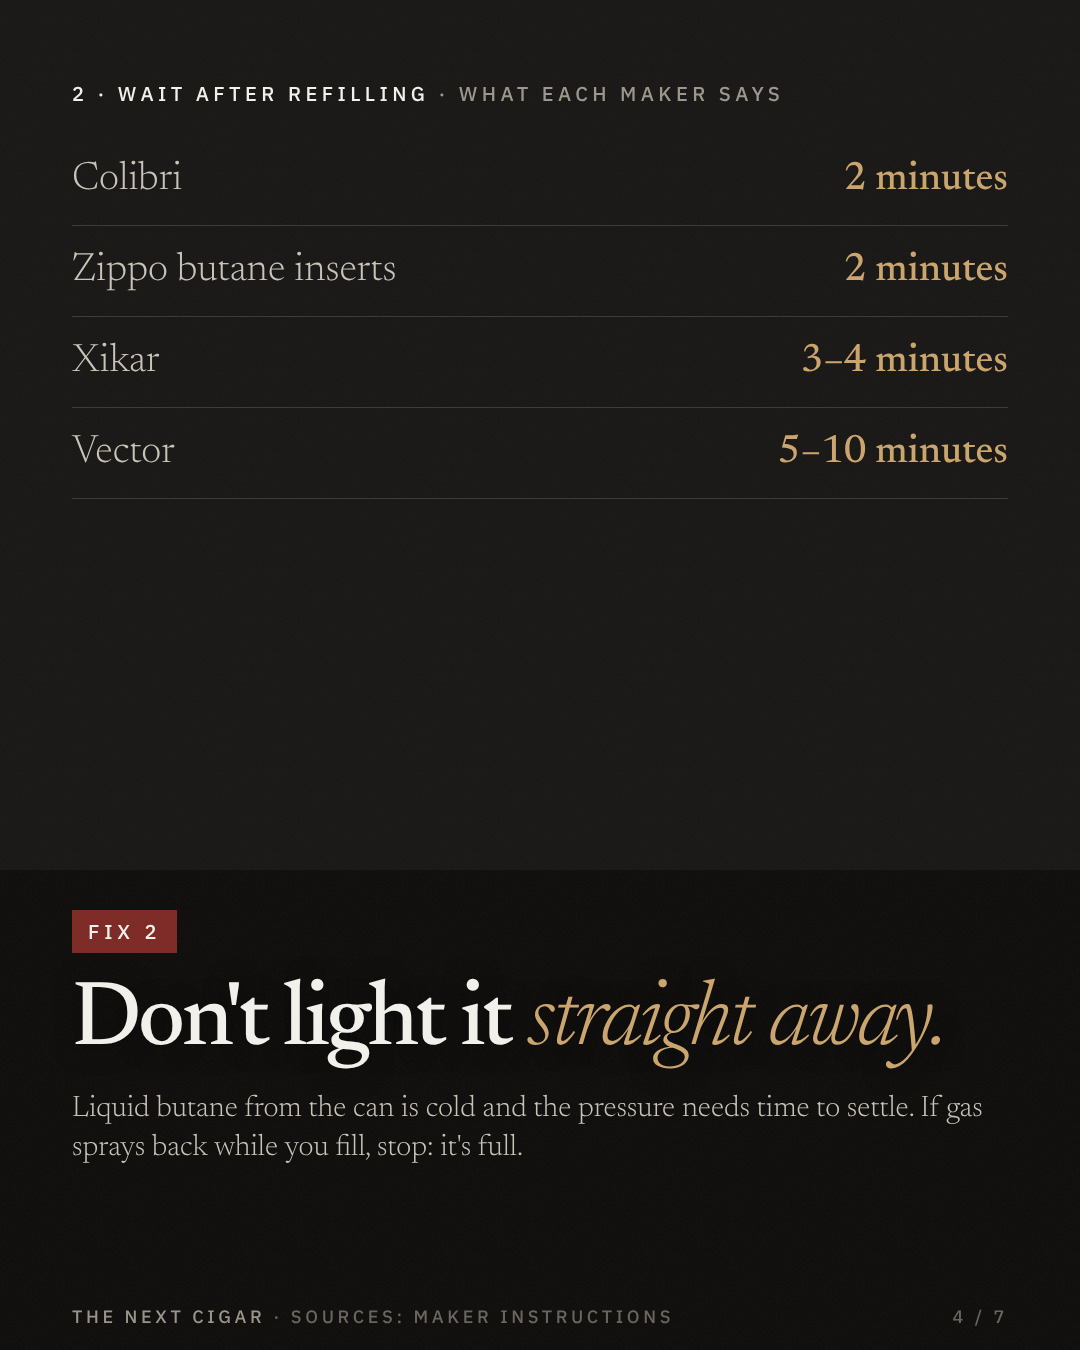
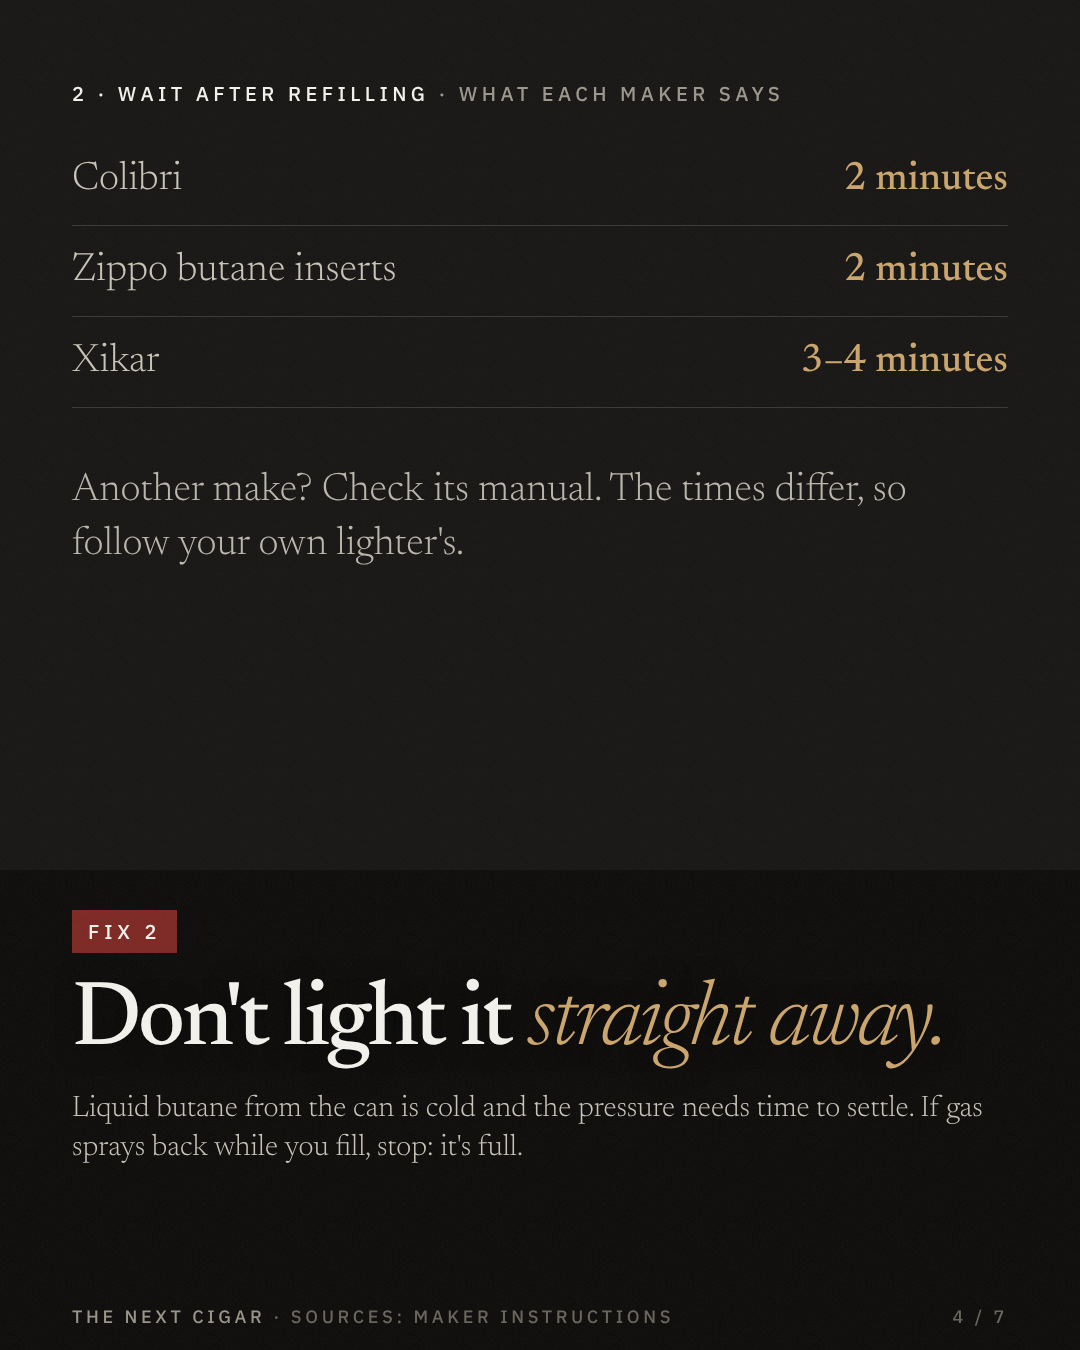
Carousel 10: remove unsourced Vector wait time from slide 4; check-your-manual line
Claude-Session: https://claude.ai/code/session_01NDc9TrKsSQw4dbaGwkoFWp

Changed region(s): [[0.0611, 0.3111, 0.9472, 0.4044]]

diff --git a/docs/social/carousels/10-torch-lighter-fixes/source.html b/docs/social/carousels/10-torch-lighter-fixes/source.html
@@ -83,8 +83,8 @@ td small{display:block;font-family:'IBM Plex Sans';font-size:15px;letter-spacing
    <tr><td>Colibri</td><td class="n ok">2 minutes</td></tr>
    <tr><td>Zippo butane inserts</td><td class="n ok">2 minutes</td></tr>
    <tr><td>Xikar</td><td class="n ok">3–4 minutes</td></tr>
-   <tr><td>Vector</td><td class="n ok">5–10 minutes</td></tr>
-  </table></div>
+  </table>
+  <p style="margin:56px 0 0;font:300 40px/1.35 'Newsreader',serif;color:#B9B4AA">Another make? Check its manual. The times differ, so follow your own lighter's.</p></div>
  <div class="band"><span class="tag">Fix 2</span><h2>Don't light it <i>straight away.</i></h2><p>Liquid butane from the can is cold and the pressure needs time to settle. If gas sprays back while you fill, stop: it's full.</p></div>
  <div class="meta"><span><b>The Next Cigar</b> · sources: maker instructions</span><span>4 / 7</span></div>
 </div>

diff --git a/docs/social/carousels/10-torch-lighter-fixes/caption.md b/docs/social/carousels/10-torch-lighter-fixes/caption.md
@@ -9,7 +9,7 @@ Accessory care only. No cigars, cigar brands, prices or shops. Lighter makers na
 
 A torch lighter that clicks and does nothing is rarely broken. Most of the time it's one of five things: air in the tank, lighting it too soon after a refill, a flame set too low, a dirty jet, or the cold.
 
-Swipe for the fix for each, straight from Xikar's, Colibri's and Vector's own instructions, including how long each maker says to wait after refilling.
+Swipe for the fix for each, from the makers' own instructions, including how long each maker says to wait after refilling.
 
 Save it for the next time yours won't catch. The full guide, with all seven causes and what each maker's warranty covers, is at the link in bio.
 
@@ -22,7 +22,7 @@ Save it for the next time yours won't catch. The full guide, with all seven caus
 1. Cover: our article page — "Clicks but won't light? It's usually one of five things."
 2. Quick diagnosis — symptom → cause.
 3. Fix 1 — bleed the tank, 4 steps.
-4. Fix 2 — wait after refilling: Colibri 2 min, Zippo inserts 2, Xikar 3–4, Vector 5–10.
+4. Fix 2 — wait after refilling: Colibri 2 min, Zippo inserts 2, Xikar 3–4. (Vector's 5–10 min removed 11 Nov 2026: not on Vector's own pages.)
 5. Fixes 3 & 4 — flame too low/high; clean the jet.
 6. Fix 5 — the cold: butane boils at −0.5 °C (NIST).
 7. Full guide, link in bio; safety: never refill near a flame, leaking valve → service.
